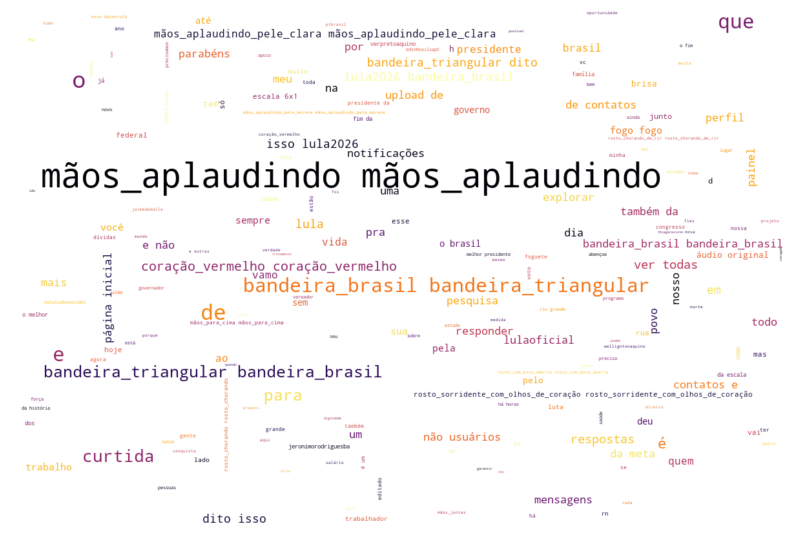
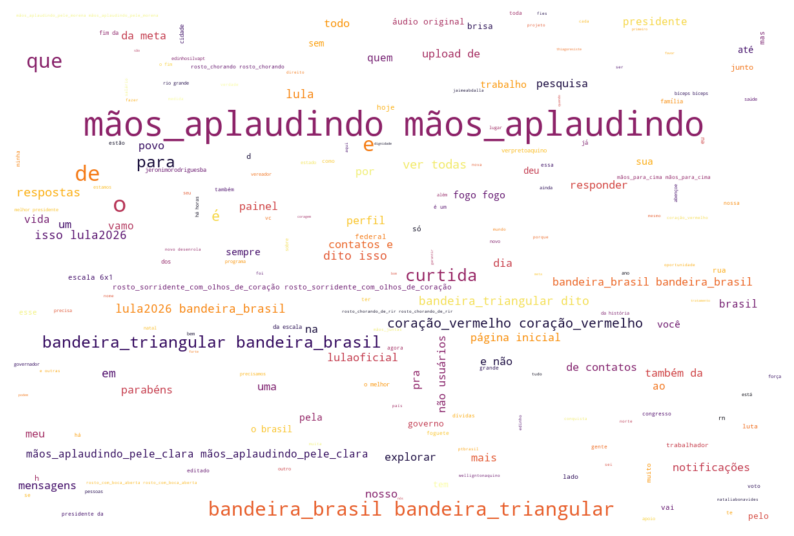
ok

diff --git a/src/styles/main.css b/src/styles/main.css
@@ -87,7 +87,7 @@ body {
 
 .views-container {
     width: 100%;
-    max-width: 600px; /* LARGURA IDEAL FEED */
+    max-width: 800px; /* LARGURA IDEAL FEED EXPANDIDA */
     padding: 20px 16px;
 }
 

diff --git a/api/index.py b/api/index.py
@@ -96,48 +96,62 @@ def calculate_risk(item: Dict[str, Any]):
 
 @app.get("/api/v1/summary")
 def summary(request: Request, supa: Client = Depends(get_supa)):
-    """Retorna KPIs consolidados com inteligência de janela adaptativa e escopo de organização."""
+    """Retorna KPIs consolidados lendo diretamente da tabela de metricas_diarias (Solenya Edition)."""
     try:
         org_id = request.headers.get("X-Organization-Id")
         now_utc = datetime.now(timezone.utc)
         
-        # 1. Total de Alvos Ativos (Escopado por Org se fornecido)
+        # 1. Total de Alvos Ativos (Continua dinâmico)
         query_c = supa.table('candidatos').select('id', count='exact').eq('status_monitoramento', 'Ativo')
         if org_id: query_c = query_c.eq('organization_id', org_id)
         c_res = query_c.limit(0).execute()
         c = c_res.count if (c_res and c_res.count is not None) else 0
         
-        # 2. Amostra Total
-        query_t = supa.table('candidatos').select('comentarios_totais_count')
-        if org_id: query_t = query_t.eq('organization_id', org_id)
-        t_res = query_t.execute()
-        t_lifetime = sum([item.get('comentarios_totais_count', 0) or 0 for item in t_res.data])
+        # 2. Busca Métrica Diária mais recente
+        res = supa.table('metricas_diarias').select('*').order('data', desc=True).limit(1).execute()
         
-        # 3. Alertas e Resiliência (JANELA 48h)
-        window_48h = (now_utc - timedelta(days=2)).isoformat()
-        query_h = supa.table('comentarios').select('id', count='exact').eq('is_hate', True).gte('data_coleta', window_48h)
-        if org_id: query_h = query_h.eq('organization_id', org_id)
-        h_res = query_h.limit(0).execute()
-        h = h_res.count if (h_res and h_res.count is not None) else 0
-        
-        query_win = supa.table('comentarios').select('id', count='exact').gte('data_coleta', window_48h)
-        if org_id: query_win = query_win.eq('organization_id', org_id)
-        t_window_res = query_win.limit(0).execute()
-        t_window = t_window_res.count if (t_window_res and t_window_res.count is not None) else 0
-        
-        res_val = round(((t_window - h) / t_window) * 100, 1) if t_window > 0 else 100.0
-        
-        return {
-            "total_monitorados": c, 
-            "total_alertas": h, 
-            "total_amostra": t_lifetime, 
-            "resiliencia": res_val, 
-            "periodo": "48h",
-            "org_id": org_id,
-            "timestamp": now_utc.isoformat()
-        }
+        if res.data:
+            m = res.data[0]
+            return {
+                "total_monitorados": c, 
+                "total_alertas": m['total_hate'], 
+                "total_amostra": m['total_coletado'], 
+                "resiliencia": m['resiliencia'], 
+                "periodo": "Hoje",
+                "org_id": org_id,
+                "timestamp": m['updated_at']
+            }
+            
+    @app.get("/api/v1/summary")
+    def summary(request: Request, supa: Client = Depends(get_supa)):
+         try:
+             # Puxa a métrica diária mais recente
+             res = supa.table('metricas_diarias').select('*').order('data', desc=True).limit(1).execute()
+             if res.data:
+                 m = res.data[0]
+                 return {
+                     "total_monitorados": 40, # Ou puxe de candidatos ativos
+                    "total_alertas": m['total_hate'],
+                    "total_amostra": m['total_coletado'],
+                    "resiliencia": m['resiliencia'],
+                    "periodo": "24h",
+                    "timestamp": m['updated_at']
+                }
+            return {"error": "Sem dados"}
+        # ...
+   
     except Exception as e:
         logger.error(f"Summary KPI Error: {e}")
+        raise HTTPException(status_code=500, detail=str(e))
+
[email redacted]("/api/v1/networks")
+def get_networks(request: Request, supa: Client = Depends(get_supa)):
+    """Busca as redes coordenadas (clusters) mais recentes."""
+    try:
+        res = supa.table('redes_coordenadas').select('*').order('created_at', desc=True).limit(10).execute()
+        return res.data if res.data else []
+    except Exception as e:
+        logger.error(f"Networks Error: {e}")
         raise HTTPException(status_code=500, detail=str(e))
 
 @app.get("/api/v1/targets")